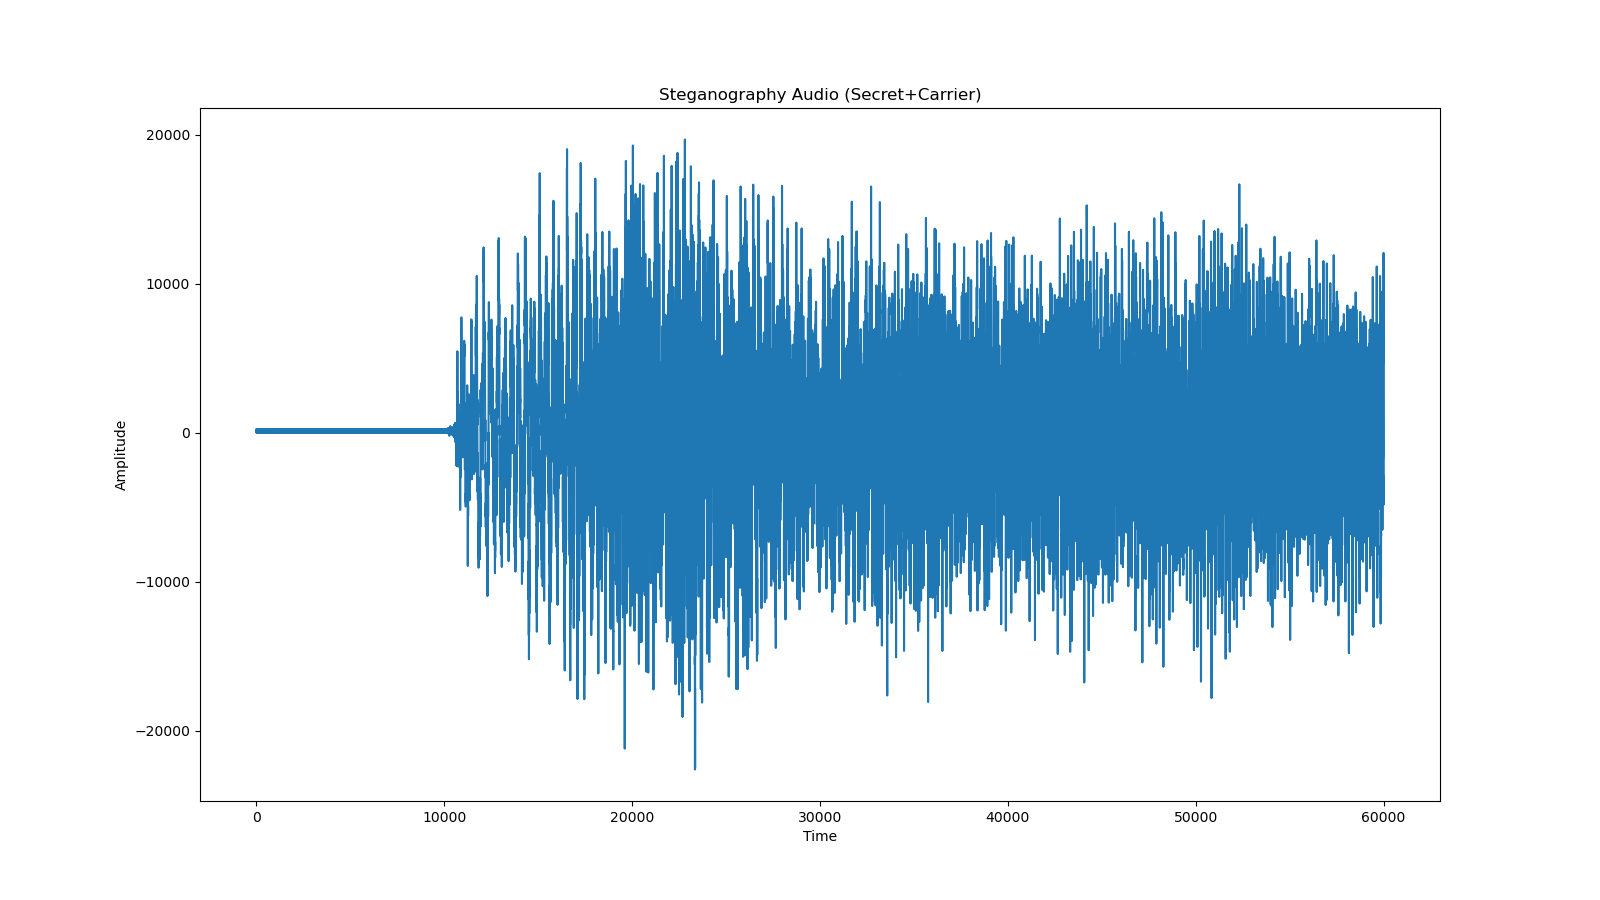
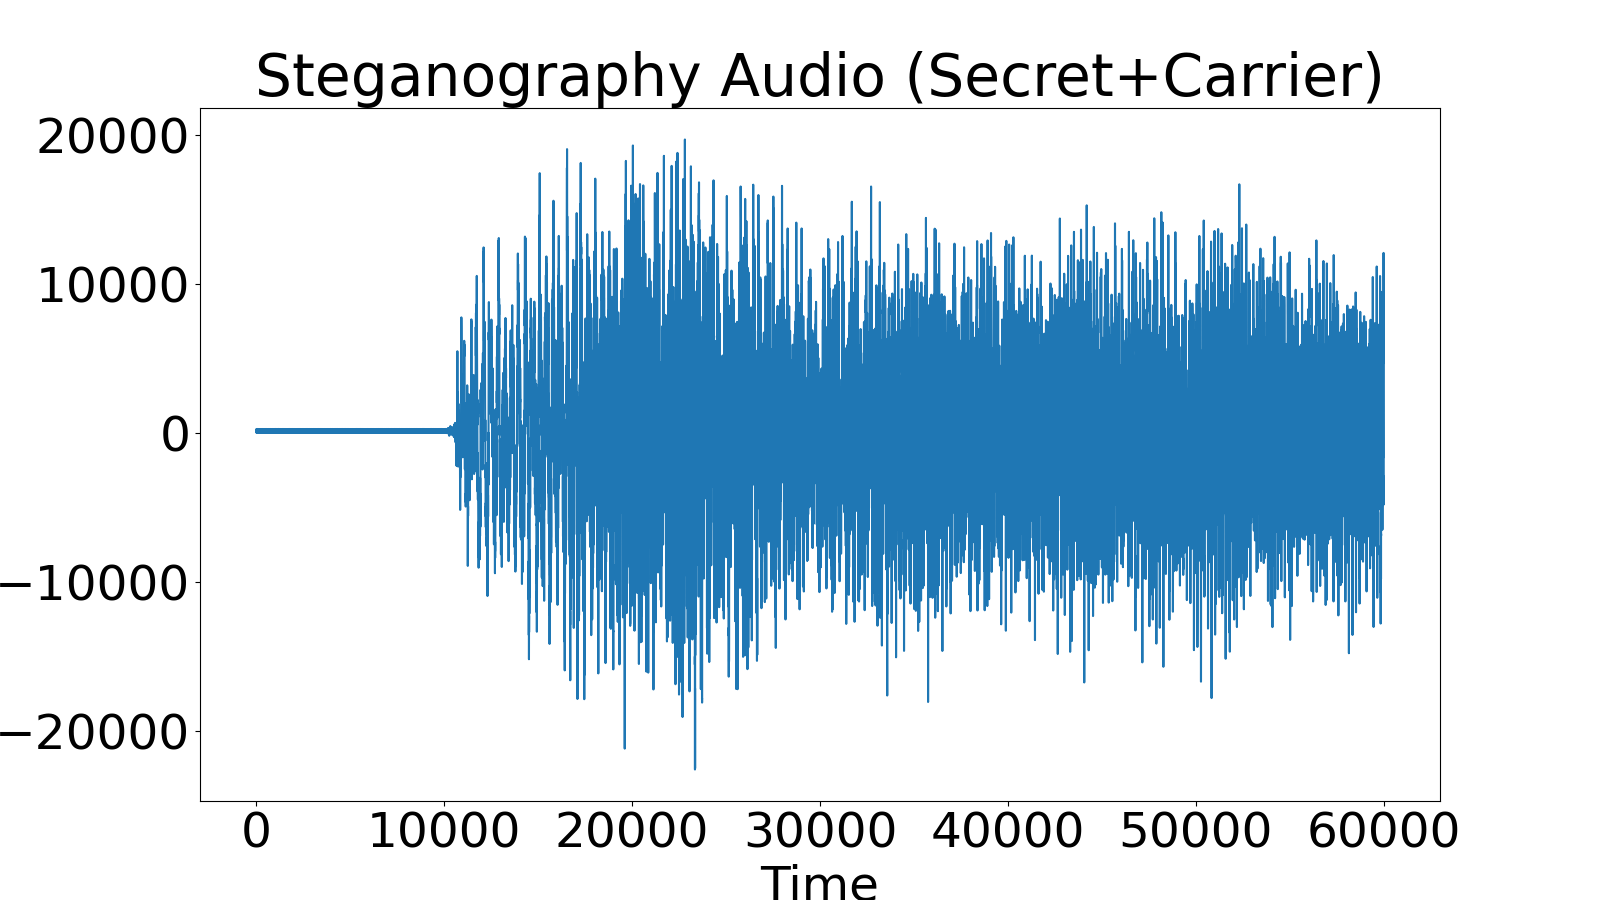
[EDITED] Update ASD

diff --git a/ASD.py b/ASD.py
@@ -69,24 +69,28 @@ class ASD:
         plt.plot(np.arange(self.data.size), self.data)
         plt.ylabel('Amplitude')
         plt.xlabel('Time')
+        plt.rc('font', size=35)
 
         plot2 = plt.figure(2)
         plt.title("Secret Message Signal")
         plt.plot(np.arange(self.data1.size), self.data1)
         plt.ylabel('Amplitude')
         plt.xlabel('Time')
+        plt.rc('font', size=35)
 
         plot3 = plt.figure(3)
         plt.title("AM Secret Message signal")
         plt.plot(np.arange(self.modulated_d1[:60000].size), self.modulated_d1[:60000])  # plot only first 60K compare
         plt.ylabel('Amplitude')
         plt.xlabel('Time')
+        plt.rc('font', size=35)
 
         plot4 = plt.figure(4)
         plt.title("Steganography Audio (Secret+Carrier)")
         plt.plot(np.arange(self.final[:60000].size), self.final[:60000])  # plot only first 60K compare
         plt.ylabel('Amplitude')
         plt.xlabel('Time')
+        plt.rc('font', size=35)
 
         # DECODING
         plot5 = plt.figure(5)
@@ -94,35 +98,36 @@ class ASD:
         plt.plot(np.arange(self.filtered.size), self.filtered)
         plt.ylabel('Amplitude')
         plt.xlabel('Time')
+        plt.rc('font', size=35)
 
         plot6 = plt.figure(6)
         plt.title("Demodulated Secret Audio")
         plt.plot(np.arange(self.demodulated.size), self.demodulated)
         plt.ylabel('Amplitude')
         plt.xlabel('Time')
+        plt.rc('font', size=35)
 
         plot7 = plt.figure(7)
         plt.title("FFT Analysis")
-        plt.plot(linspace(-self.rate / 2, self.rate / 2, 46102), np.abs(fft(self.carrier)) * 10, color="purple")
-        plt.plot(linspace(-self.rate / 2, self.rate / 2, 5801472), np.abs(fft(self.modulated_d1)) * 10, color="red")
-        plt.plot(fftfreq(self.data1.shape[0]), np.abs(fft(self.data1)))
+        plt.plot(linspace(-self.rate / 2, self.rate / 2, 46102), np.abs(fft(self.carrier)) * 100, color="purple")
+        plt.plot(linspace(-self.rate / 2, self.rate / 2, 5801472), np.abs(fft(self.modulated_d1)) , color="red")
+        plt.plot(fftfreq(self.data1.shape[0]), np.abs(fft(self.data1*100)))
         plt.ylabel('Magnitude')
         plt.xlabel('Frequency')
+        plt.rc('font', size=35)
         plots = [plot1, plot2, plot3, plot4, plot5, plot6, plot7]
 
         for i in range(7):
             plots[i].set_size_inches(16, 9)
-            #plots[i].show()
-            plt.rc('font', size=35)
             plots[i].savefig(f'./images/ASD-{i + 1}.png', dpi=100)
 
 
 if __name__ == "__main__":
     asd = ASD()
-    for i in range(10):
+    for i in range(1):
         asd.encoder()
     asd.encoder_writer()
-    for i in range(10):
+    for i in range(1):
         asd.decoder()
     asd.decoder_writer()
     asd.visualizer()
